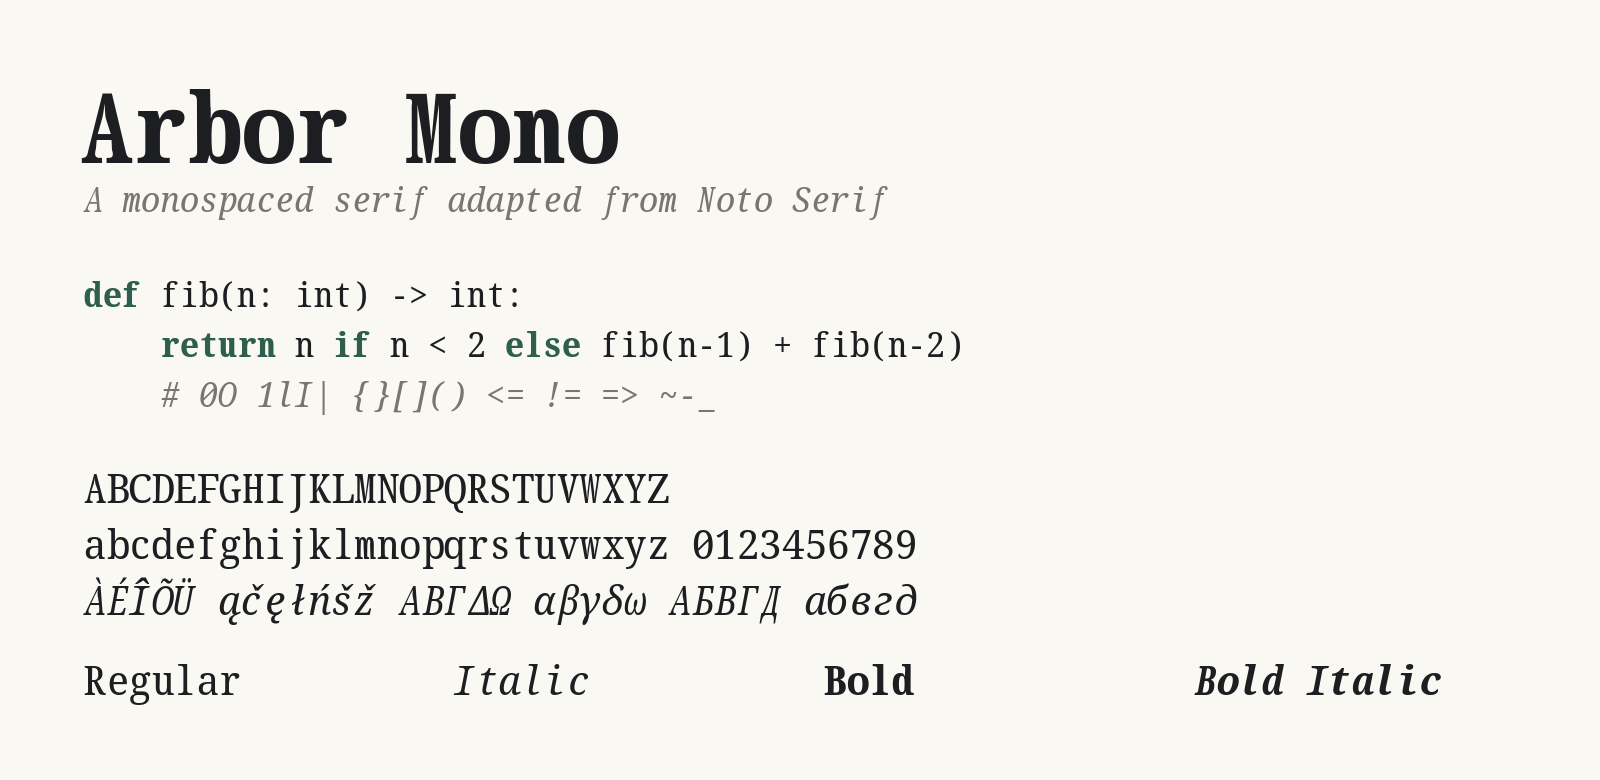
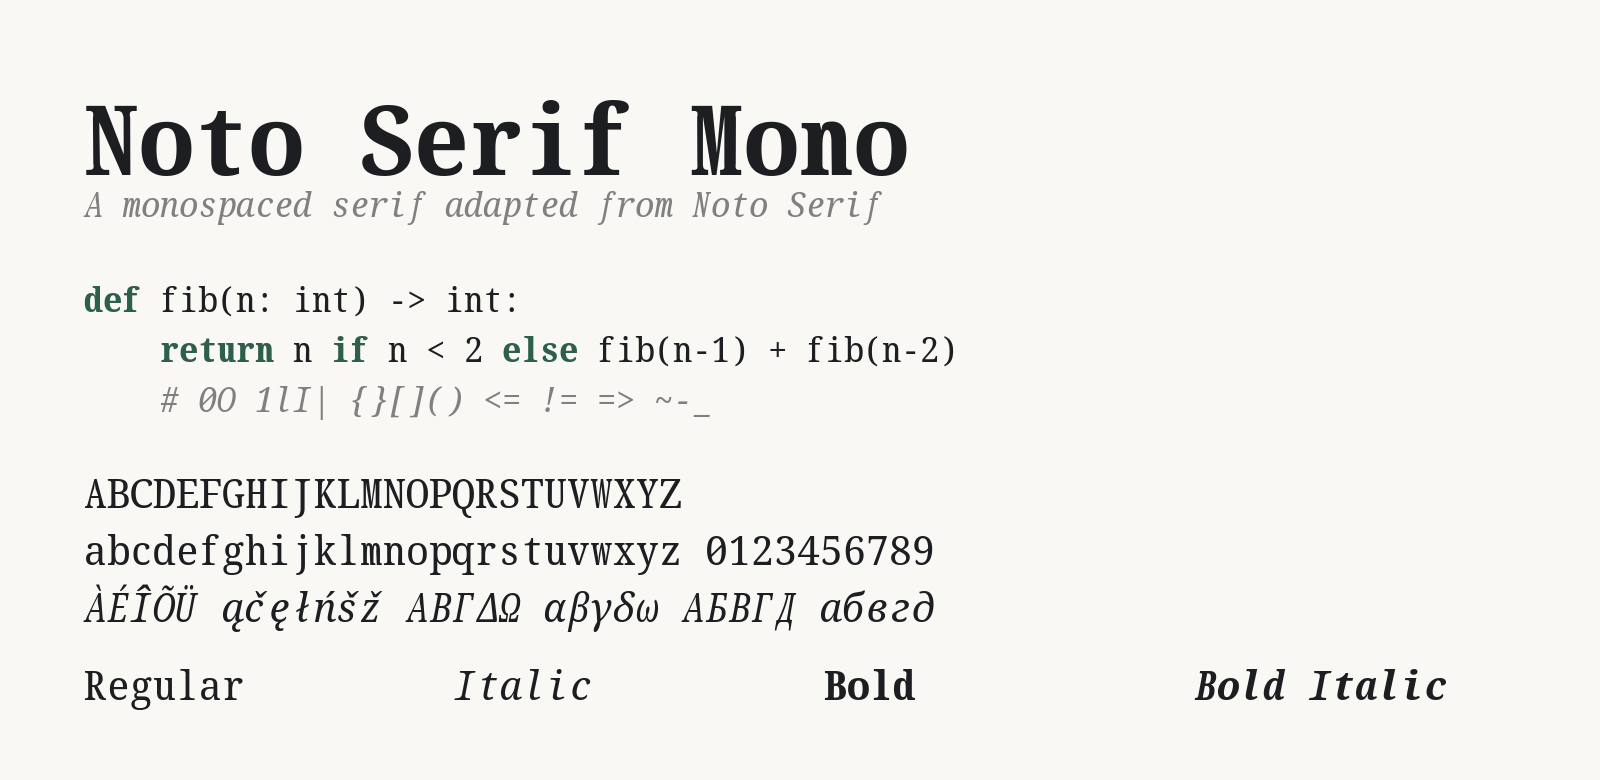
Redraw the README specimen as Noto Serif Mono
documentation/specimen.png still showed the old Arbor Mono name and the
563 cell. New scripts/qa/specimen.py renders it from the built fonts,
taking the family name from the name table.

diff --git a/scripts/qa/specimen.py b/scripts/qa/specimen.py
@@ -1,0 +1,57 @@
+#!/usr/bin/env python3
+"""Render documentation/specimen.png (the README image) from the built fonts.
+
+    python scripts/qa/specimen.py [fonts/ttf] [documentation/specimen.png]
+
+The family name is read from the Regular font's name table, so the image follows the font.
+"""
+import sys, os
+from fontTools.ttLib import TTFont
+from PIL import Image, ImageDraw, ImageFont
+
+FONTS = sys.argv[1] if len(sys.argv) > 1 else 'fonts/ttf'
+OUT = sys.argv[2] if len(sys.argv) > 2 else 'documentation/specimen.png'
+
+W, H = 1600, 780
+BG, INK, GREY, GREEN = (249, 248, 244), (28, 30, 33), (128, 128, 128), (45, 95, 75)
+X = 84
+
+
+def font(style, size):
+    return ImageFont.truetype(os.path.join(FONTS, f'NotoSerifMono-{style}.ttf'), size)
+
+
+family = TTFont(os.path.join(FONTS, 'NotoSerifMono-Regular.ttf'))['name'].getDebugName(1)
+img = Image.new('RGB', (W, H), BG)
+dr = ImageDraw.Draw(img)
+
+
+def runs(y, parts, size):
+    """Draw [(text, style, colour), ...] left to right from X on baseline-ish y."""
+    x = X
+    for text, style, colour in parts:
+        f = font(style, size)
+        dr.text((x, y), text, font=f, fill=colour)
+        x += dr.textlength(text, font=f)
+
+
+dr.text((X, 72), family, font=font('Bold', 96), fill=INK)
+dr.text((X, 180), 'A monospaced serif adapted from Noto Serif', font=font('Italic', 34), fill=GREY)
+
+code = 34
+runs(275, [('def', 'Bold', GREEN), (' fib(n: int) -> int:', 'Regular', INK)], code)
+runs(325, [('    ', 'Regular', INK), ('return', 'Bold', GREEN), (' n ', 'Regular', INK), ('if', 'Bold', GREEN),
+           (' n < 2 ', 'Regular', INK), ('else', 'Bold', GREEN), (' fib(n-1) + fib(n-2)', 'Regular', INK)], code)
+runs(375, [('    # 0O 1lI| {}[]() <= != => ~-_', 'Italic', GREY)], code)
+
+big = 40
+dr.text((X, 465), 'ABCDEFGHIJKLMNOPQRSTUVWXYZ', font=font('Regular', big), fill=INK)
+dr.text((X, 522), 'abcdefghijklmnopqrstuvwxyz 0123456789', font=font('Regular', big), fill=INK)
+dr.text((X, 579), 'ÀÉÎÕÜ ąčęłńšž ΑΒΓΔΩ αβγδω АБВГД абвгд', font=font('Italic', big), fill=INK)
+
+for i, (label, style) in enumerate([('Regular', 'Regular'), ('Italic', 'Italic'),
+                                    ('Bold', 'Bold'), ('Bold Italic', 'BoldItalic')]):
+    dr.text((X + i * 370, 657), label, font=font(style, big), fill=INK)
+
+img.save(OUT)
+print(OUT, img.size, family)

diff --git a/scripts/qa/README.md b/scripts/qa/README.md
@@ -25,5 +25,7 @@ installed and a pure-Python flood fill otherwise.
 | `ftr_py.py FONT PPEM MODE INTERP GID…` | Pure-Python stand-in for the compiled `ftr` renderer |
 | `../make_hint_controls.py FONT…` | Not a check: regenerates the ttfautohint control files in `sources/hinting/` and reports any accent still touching its letter after hinting. Rerun it whenever outlines change, before `scripts/hint.py` |
 | `check_family.py DIR` | About 45 FontBakery/fontspector-style metadata checks in pure fontTools, for use when fontspector is unavailable |
+| `contact_sheet.py FONT OUT.png` | Not a check: every glyph in its cell, with code point or name, for reviewing spacing across the whole font |
+| `specimen.py [DIR] [OUT.png]` | Not a check: redraws `documentation/specimen.png`, the README image, from the built fonts. Rerun it after a rename or a change to the cell |
 
 `STYLE` is one of Regular, Bold, Italic or BoldItalic, and refers to `fonts/ttf/NotoSerifMono-STYLE.ttf`.
